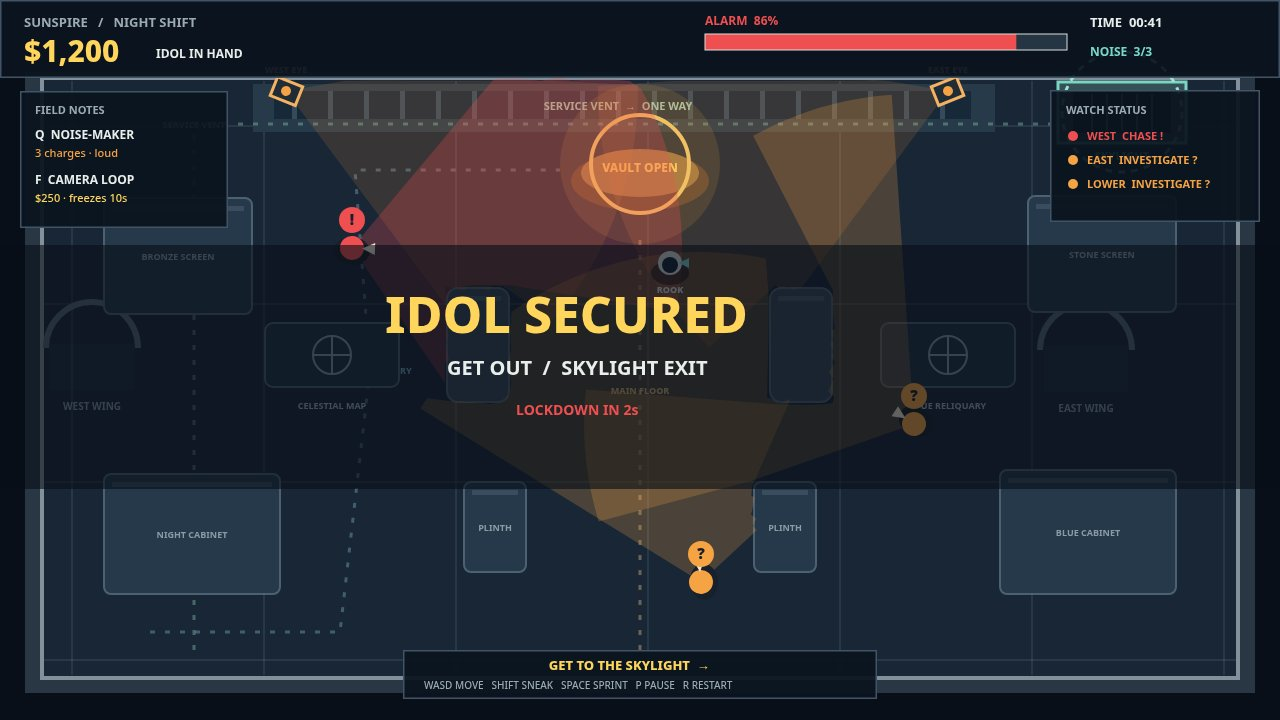
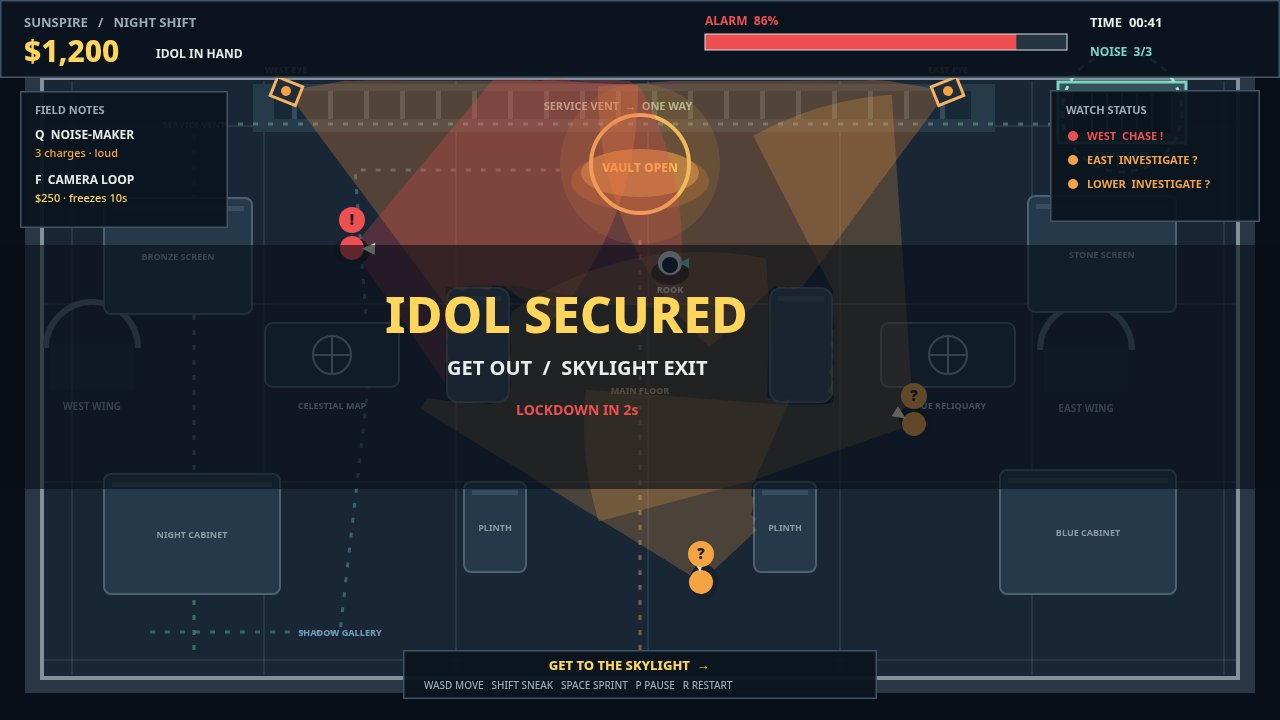
SUNSPIRE HEIST round 4: unclipped route label + stronger vision cones

Changed region(s): [[0.4688, 0.0917, 0.75, 0.3667], [0.2188, 0.0917, 0.375, 0.3056], [0.2188, 0.8556, 0.3125, 0.8861]]

diff --git a/game/src/render.js b/game/src/render.js
@@ -29,9 +29,6 @@ function roomArt(ctx,g) {
   routes.forEach((route,index)=>{
     ctx.strokeStyle=route.color; ctx.globalAlpha=.43;
     ctx.beginPath(); route.points.forEach(([x,y],i)=>i?ctx.lineTo(x,y):ctx.moveTo(x,y)); ctx.stroke();
-    const [x,y]=route.points[Math.floor(route.points.length/2)];
-    ctx.globalAlpha=.9; rounded(ctx,x-54,y-13,108,25,'rgba(12,23,34,.86)',route.color);
-    text(ctx,route.name,x,y+4,9,route.color,800,'center');
   }); ctx.restore();
   // Built-in gallery landmarks fill the zones without obscuring movement.
   drawArch(ctx,92,348,'WEST WING'); drawArch(ctx,1086,350,'EAST WING');
@@ -42,6 +39,11 @@ function roomArt(ctx,g) {
     ctx.fillStyle='rgba(157,178,190,.17)'; ctx.fillRect(rect.x+8,rect.y+8,rect.w-16,5);
     if(!isPillar){ text(ctx,rect.label.toUpperCase(),rect.x+rect.w/2,rect.y+rect.h/2+4,9,'#8b9ba6',700,'center'); }
   });
+  ctx.save(); routes.forEach(route=>{
+    const [x,y]=route.labelAt??route.points[Math.floor(route.points.length/2)];
+    ctx.globalAlpha=.9; rounded(ctx,x-54,y-13,108,25,'rgba(12,23,34,.86)',route.color);
+    text(ctx,route.name,x,y+4,9,route.color,800,'center');
+  }); ctx.restore();
   drawExit(ctx,g); drawVault(ctx,g);
 }
 function drawArch(ctx,x,y,name){
@@ -87,10 +89,10 @@ function cone(ctx,origin,angle,range,half,color,alpha){
   ctx.closePath();ctx.fillStyle=color;ctx.globalAlpha=alpha;ctx.fill();ctx.globalAlpha=1;
 }
 function drawDanger(ctx,g){
-  g.cameras.forEach(camera=>{if(!camera.loop)cone(ctx,camera,camera.angle,camera.range,.55,'#ef8c3c',.15);});
+  g.cameras.forEach(camera=>{if(!camera.loop)cone(ctx,camera,camera.angle,camera.range,.55,'#ef8c3c',.28);});
   g.guards.forEach(guard=>{
     const color=guard.state==='chase'?'#f04f51':guard.state==='glance'||guard.state==='investigate'?'#f6a344':'#a4afb3';
-    cone(ctx,guard,guard.angle,330,.92,color,guard.state==='chase'?.27:guard.state==='patrol'?.16:.23);
+    cone(ctx,guard,guard.angle,330,.92,color,guard.state==='chase'?.27:guard.state==='patrol'?.33:.23);
   });
 }
 function drawCamera(ctx,camera){

diff --git a/game/src/world.js b/game/src/world.js
@@ -10,7 +10,7 @@ export const vault = { x: 640, y: 164, r: 54 };
 export const exit = { x: 1122, y: 112, r: 44 };
 export const routes = [
   { name:'MAIN FLOOR', color:'#d5b887', points:[[640,650],[640,390],[640,230]], note:'fast · exposed' },
-  { name:'SHADOW GALLERY', color:'#78a6bc', points:[[150,632],[340,632],[370,370],[355,170],[560,170]], note:'slow · concealed' },
+  { name:'SHADOW GALLERY', color:'#78a6bc', points:[[150,632],[340,632],[370,370],[355,170],[560,170]], labelAt:[340,632], note:'slow · concealed' },
   { name:'SERVICE VENT', color:'#87c1a9', points:[[194,650],[194,386],[194,124],[926,124],[1050,124]], note:'one way · bypasses west watch' },
 ];
 export function blocked(x, y, radius = 14) {

diff --git a/verification.md b/verification.md
@@ -90,3 +90,47 @@ for the known ~8-point historical overestimate. The cover proves strong composit
 readable threats and HUD, the gold objective, and clear palette separation at full
 size and the 300px thumbnail; the getaway thumbnail is substantially darker. This
 estimate is visual only and is not a measured leaderboard result.
+
+## Round 4 — route label and vision cones
+
+- Moved the SHADOW GALLERY label to its open lower-left waypoint and draw all
+  route labels after display panels and covers. Increased camera cone alpha to
+  0.28 and patrol cone alpha to 0.33.
+- Re-captured all four fixed-seed shots twice in separate browser targets;
+  each pair was byte-identical. Stored 1280×720 JPEGs under 256 KiB. Viewed
+  each full-size shot and its 300px review image. Cover shows the complete
+  SHADOW GALLERY label, thief, 3 guards with cones, 2 camera beams, gold loot,
+  and alarm meter; a guard cone remains clearly visible at 300px.
+- Per-shot thumbnail check: cover—loot, cone/beam, and alarm identifiable;
+  routes—loot, cone/beam, and alarm identifiable; alarm—$1,200, danger cones,
+  and alarm identifiable; getaway—$1,200 and alarm identifiable, cones faint
+  under the known dark end-screen overlay.
+- **V0 PASS:** 14 game files/directories, 33,082 bytes; four valid JPEGs within
+  limits; 12 modules parse and no network-looking references. The verifier's
+  main runs produced identical output trees; dossier 463,232 bytes.
+- **V1 FAIL (latest run):** the verifier stopped at title/play smoke because
+  Enter left the test page in the title state, with no browser errors or bad
+  requests. Earlier attempts alternated between that failure and a route A
+  bot failure at the title state. All four fixed-seed shots individually
+  passed in an earlier run. A full verifier run before adding the label anchor
+  metadata passed V1, including route A; do not count V1 as a clean final pass.
+- **V2 PASS (earlier complete verifier run):** cover pixel checklist found
+  thief, 3 guards, 2 cameras, loot, and alarm; gold=2,257px, alarm=2,366px,
+  warm danger cells=7, max flat cell=0.432. Play HUD state: $1,200, alarm 33,
+  2 tools, 41 seconds, 3 guards. Final verifier stopped at V1 before V2 ran.
+- **V3 PASS (earlier complete verifier run):** 12 source modules; largest=9,765
+  bytes. Final verifier stopped at V1 before V3 ran.
+- Independent `main.ts` runs to `/tmp/heist-round4-c` and
+  `/tmp/heist-round4-d` matched byte-for-byte (18 files each).
+- Fresh kit `check --repo`: **5 passed, 1 failed, 16 skipped, 3 checked at
+  submission**. Pass: competition_open, snapshot, license_osi, entrypoint,
+  repo_created_after_open. Fail: transcripts_present (no transcript bundle,
+  omitted as directed). Skipped: prerequisites, strategy_note, committed_secret,
+  transcripts_recorded, thinking_wellformed, thinking_in_window,
+  thinking_committed, thinking_reproduces, thinking_on_task, thinking_turns,
+  thinking_priced, thinking_revised, thinking_fresh, transcripts_run_record,
+  thinking_own_work, repo_public. At-submission checks: repo_owner,
+  source_bundle, duplicate_snapshot. The kit evaluated committed snapshot
+  a3313b7 and noted the working tree changes were not checked.
+- Screenshot-only dev win-rate estimate: **74–80%**, discounted ~8 points for
+  prior overestimates; this is a visual estimate, not a measured result.
